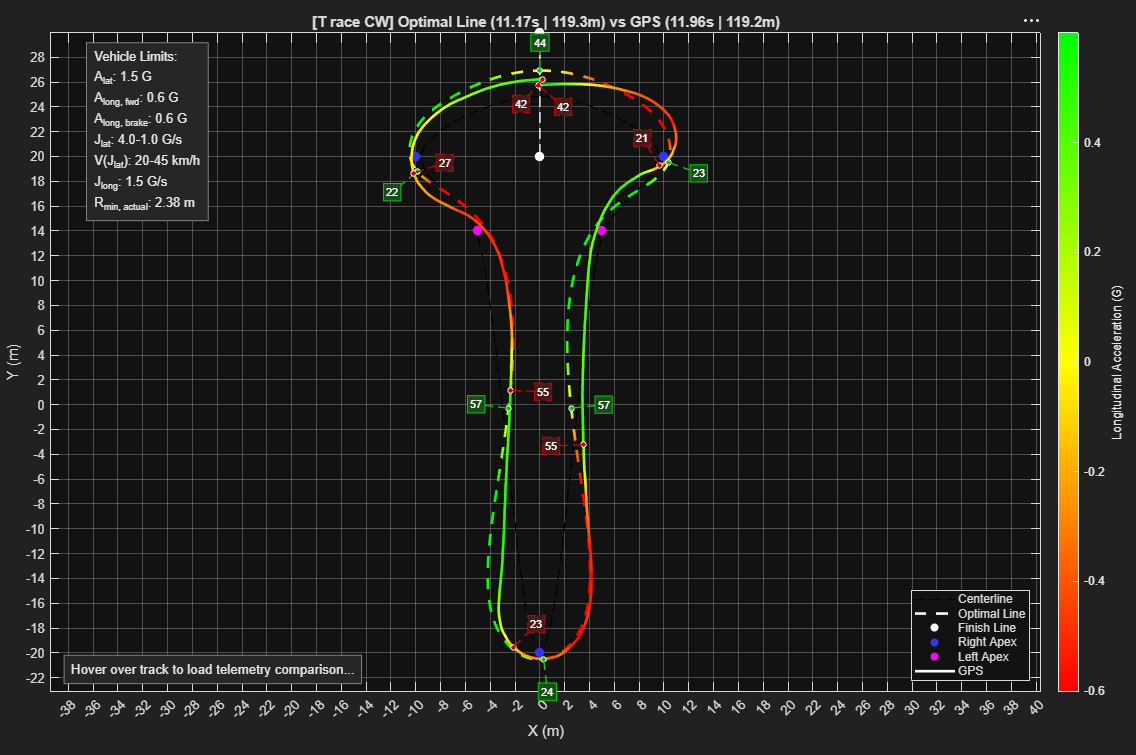
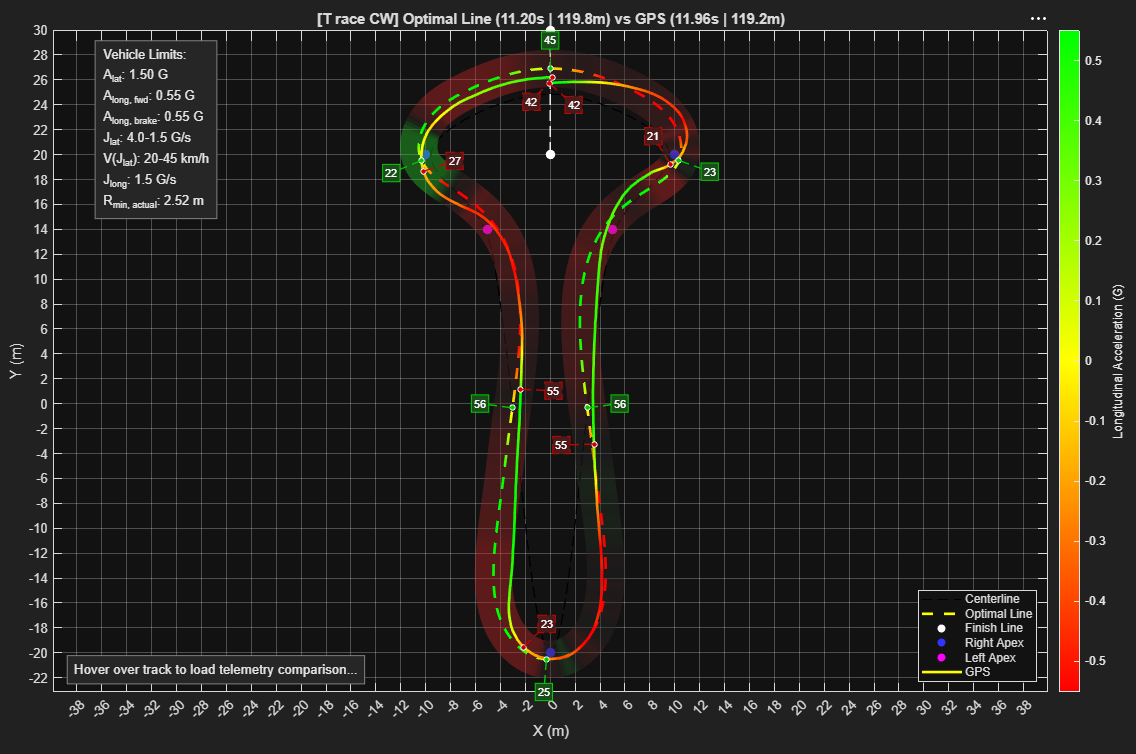
added time delta ribbon

Changed region(s): [[0.0, 0.0, 1.0, 0.9761]]

diff --git a/track_optimization.m b/track_optimization.m
@@ -11,21 +11,21 @@ g = 9.81; % m/s^2
 
 % Vehicle Limits
 A_lat = 1.5 * g;
-A_long_fwd = 0.6 * g;
-A_long_brake = 0.6 * g;
+A_long_fwd = 0.55 * g;
+A_long_brake = 0.55 * g;
 J_long = 1.5 * g;
 R_min = 2.0;
 
 % Dynamic Lateral Jerk Parameters
 lat_jerk_max = 4.0 * g;
-lat_jerk_min = 1.0 * g;
+lat_jerk_min = 1.5 * g;
 speed_lat_jerk_min = 20.0 / 3.6; % km/h (Highest jerk allowed below this speed)
 speed_lat_jerk_max = 45.0 / 3.6; % km/h (Lowest jerk allowed above this speed)
 
 % Import Data
 rc_data = readtable('racechrono_ts_11_96.csv');
 % Telemetry Rotation
-theta = 3.697; % radians %3.665 for 12.09
+theta = 3.697; % radians %3.665 for 12.09; 3.697 for 11.96
 % Telemetry Translation
 translate_x = 0;
 translate_y = -20.5;
@@ -33,7 +33,7 @@ translate_y = -20.5;
 rc_start_idx = 193;
 rc_end_idx = 734;
 
-% Solver Nodes (recommended at least ~1 node/m for tracks with a tight hairpin)
+% Solver Nodes (recommended at least ~1 node/m for tracks with a tight hairpin (2.5m radius))
 % Above 500 nodes you might have trouble running the simulation.
 nodes = 120;
 
@@ -383,8 +383,8 @@ clf;
 
 % Setup Centerline and Dummy Lines for Legend
 h_center = plot(ref_path.x, ref_path.y, 'k--', 'DisplayName', 'Centerline'); hold on;
-h_opt_dummy = plot(NaN, NaN, 'w--', 'LineWidth', 2);
-h_gps_dummy = plot(NaN, NaN, 'w-', 'LineWidth', 2);
+h_opt_dummy = plot(NaN, NaN, 'Color', [1, 1, 0], 'LineStyle', '--', 'LineWidth', 2);
+h_gps_dummy = plot(NaN, NaN, 'Color', [1, 1, 0], 'LineStyle', '-', 'LineWidth', 2);
 
 % Draw thin dashed white line between finish points
 plot([track_pts(1,1), track_pts(2,1)], [track_pts(1,2), track_pts(2,2)], ...
@@ -401,6 +401,48 @@ h_right = scatter(track_pts(idx_right, 1), track_pts(idx_right, 2), 50, [0.2, 0.
 % 3. Left-hand Apexes (CCW = -1)
 idx_left = find(track_pts(3:end, 4) == -1) + 2;
 h_left = scatter(track_pts(idx_left, 1), track_pts(idx_left, 2), 50, [1, 0, 1], 'filled', 'DisplayName', 'Left Apex');
+
+
+% --- Delta Time Track Ribbon ---
+% Calculate smooth normal vectors for the dense optimal line
+dx_dense = gradient(x_plot_dense);
+dy_dense = gradient(y_plot_dense);
+L_dense = sqrt(dx_dense.^2 + dy_dense.^2);
+nx_dense = -dy_dense ./ L_dense;
+ny_dense = dx_dense ./ L_dense;
+
+% Define 2m wide ribbon (+1m and -1m from centerline)
+X_ribbon = [x_plot_dense - 1.5*nx_dense, x_plot_dense + 1.5*nx_dense]';
+Y_ribbon = [y_plot_dense - 1.5*ny_dense, y_plot_dense + 1.5*ny_dense]';
+Z_ribbon = zeros(size(X_ribbon)); 
+
+% Extract unique GPS spatial data for interpolation
+s_rc_raw_temp = [0; cumsum(ds_rc)];
+[s_rc_clean_temp, u_idx] = unique(s_rc_raw_temp);
+v_gps_clean = v_rc(u_idx);
+
+% Calculate spatial delta time rate (s/m)
+v_gps_dense = interp1(s_rc_clean_temp, v_gps_clean, s_dense, 'linear', 'extrap');
+v_gps_dense(v_gps_dense < 1) = 1; % Prevent division by zero at standstill
+delta_rate = (1 ./ v_gps_dense) - (1 ./ hover_data.v);
+
+% Map delta rate explicitly to RGB arrays
+% Positive (losing time) -> Red, Negative (gaining/neutral) -> Green
+rate_norm = max(min(delta_rate / 0.015, 1), -1); 
+R_rib = 0.15 + 0.65 * (rate_norm > 0) .* rate_norm; 
+G_rib = 0.15 + 0.65 * (rate_norm < 0) .* abs(rate_norm); 
+B_rib = 0.15 * ones(size(rate_norm));
+
+% Construct the 3D RGB matrix for the surface
+C_ribbon = zeros(2, length(s_dense), 3);
+C_ribbon(1, :, 1) = R_rib; C_ribbon(1, :, 2) = G_rib; C_ribbon(1, :, 3) = B_rib;
+C_ribbon(2, :, :) = C_ribbon(1, :, :); % Copy colors to both edges of the ribbon
+
+% Plot the colored ribbon under the telemetry lines
+surf(X_ribbon, Y_ribbon, Z_ribbon, C_ribbon, ...
+    'EdgeColor', 'none', 'FaceAlpha', 0.4, 'HandleVisibility', 'off');
+
+
 
 % 1. Color Mapping
 % Calculate longitudinal G-force for the color mapping
@@ -448,7 +490,7 @@ xlabel('X (m)'); ylabel('Y (m)');
 R_actual_min = min(1 ./ abs(kappa));
 
 % Construct the parameter string
-param_str = sprintf('Vehicle Limits:\nA_{lat}: %.1f G\nA_{long, fwd}: %.1f G\nA_{long, brake}: %.1f G\nJ_{lat}: %.1f-%.1f G/s\nV(J_{lat}): %.0f-%.0f km/h\nJ_{long}: %.1f G/s\nR_{min, actual}: %.2f m', ...
+param_str = sprintf('Vehicle Limits:\nA_{lat}: %.2f G\nA_{long, fwd}: %.2f G\nA_{long, brake}: %.2f G\nJ_{lat}: %.1f-%.1f G/s\nV(J_{lat}): %.0f-%.0f km/h\nJ_{long}: %.1f G/s\nR_{min, actual}: %.2f m', ...
     A_lat/g, A_long_fwd/g, A_long_brake/g, lat_jerk_max/g, lat_jerk_min/g, speed_lat_jerk_min*3.6, speed_lat_jerk_max*3.6, J_long/g, R_actual_min);
 
 % Create the text box using data units
